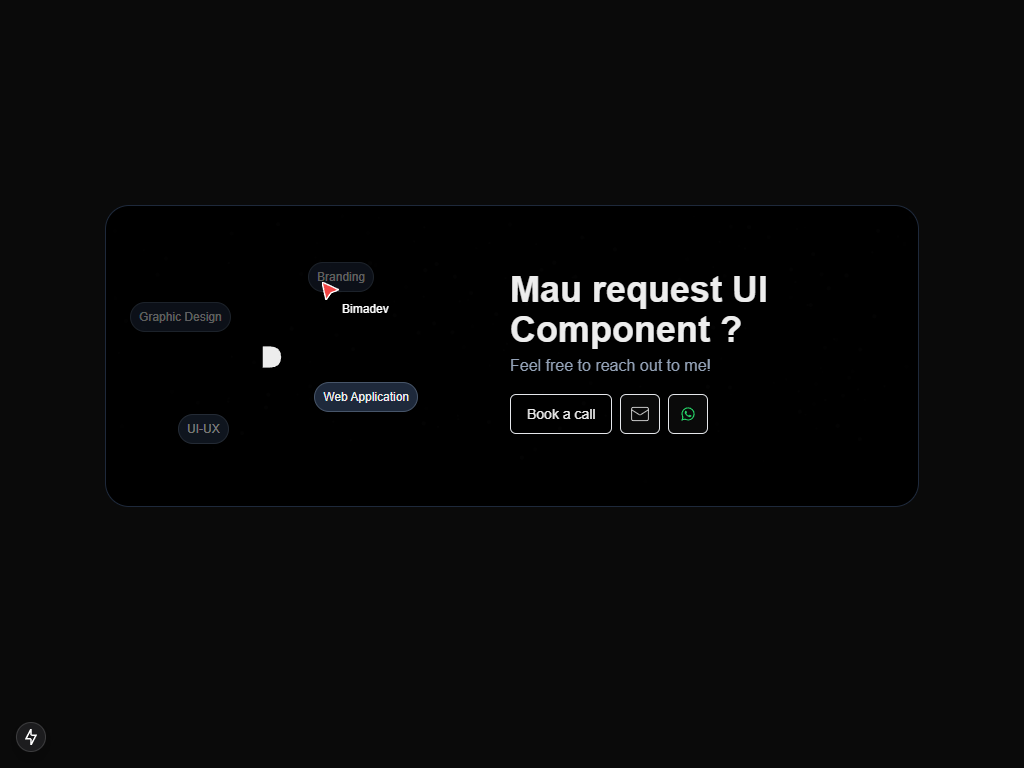
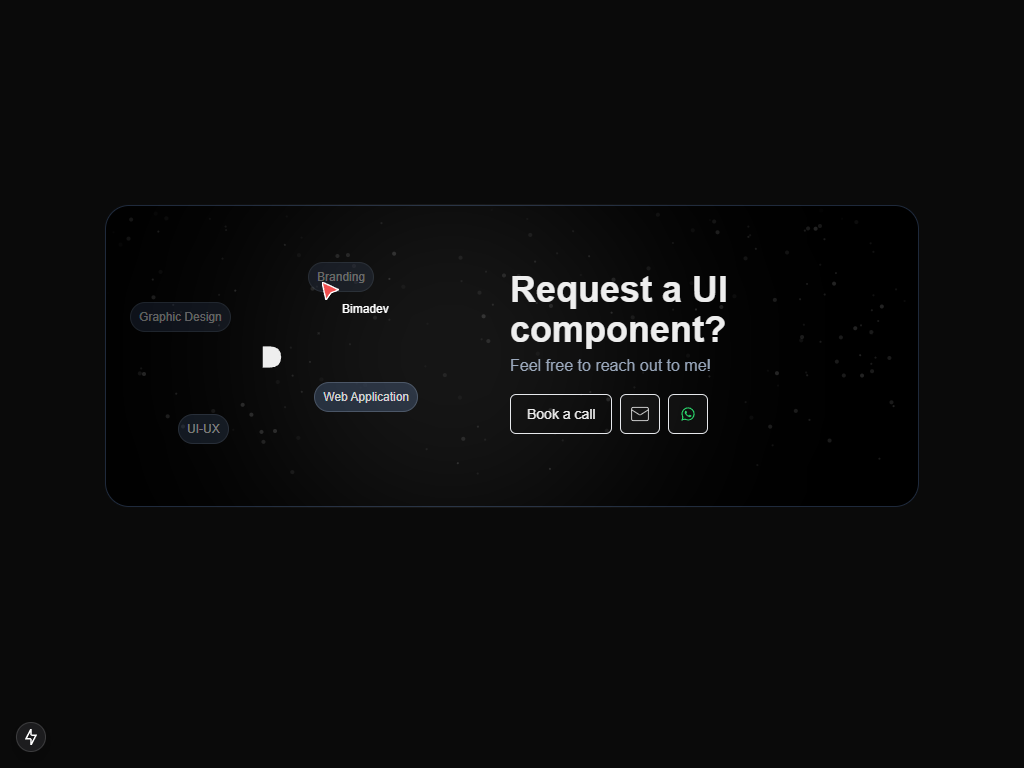
Update image Canvas

Changed region(s): [[0.5, 0.3438, 0.75, 0.4688], [0.3125, 0.5, 0.375, 0.5312]]

diff --git a/src/app/pict/page.tsx b/src/app/pict/page.tsx
@@ -11,12 +11,12 @@ import { ScrollaAnimation } from "../components/UI/scroll-animation/demo";
 
 export default function pict() {
     return (
-        <div className="flex justify-center items-center">
+        <div className="flex justify-center items-center h-[100vh]">
         {/* <AnimeNavBarDemo /> */}
-        <Canvas />
+        {/* <Canvas /> */}
         {/* <FloatingButton /> */}
         {/* <GooeyTextDemo /> */}
-        {/* <Connect /> */}
+        <Connect />
         {/* <InteraktifIcon /> */}
         {/* <SplineSceneBasic /> */}
         {/* <ScrollaAnimation /> */}
